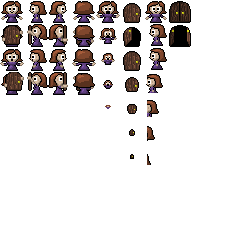
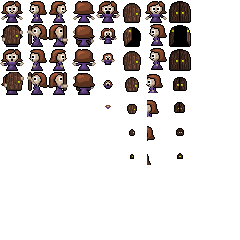
Falling animation for big doors

diff --git a/levels/Objects.tsx b/levels/Objects.tsx
@@ -62,6 +62,38 @@
    <property name="state" value="open"/>
   </properties>
  </tile>
+ <tile id="27">
+  <properties>
+   <property name="name" value="bigdoor"/>
+   <property name="state" value="open"/>
+   <property name="frame" value="0"/>
+   <property name="state" value="falling"/>
+  </properties>
+ </tile>
+ <tile id="37">
+  <properties>
+   <property name="name" value="bigdoor"/>
+   <property name="state" value="open"/>
+   <property name="frame" value="1"/>
+   <property name="state" value="falling"/>
+  </properties>
+ </tile>
+ <tile id="47">
+  <properties>
+   <property name="name" value="bigdoor"/>
+   <property name="state" value="open"/>
+   <property name="frame" value="2"/>
+   <property name="state" value="falling"/>
+  </properties>
+ </tile>
+ <tile id="57">
+  <properties>
+   <property name="name" value="bigdoor"/>
+   <property name="state" value="open"/>
+   <property name="frame" value="3"/>
+   <property name="state" value="falling"/>
+  </properties>
+ </tile>
  <tile id="11">
   <properties>
    <property name="name" value="player"/>
